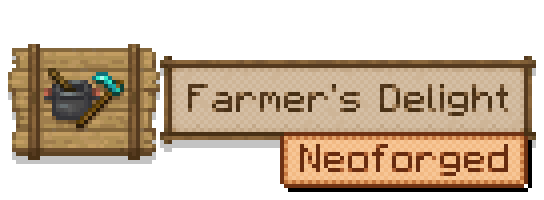
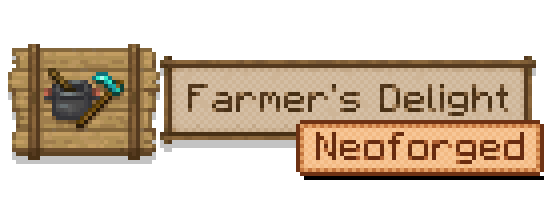
Branding: move Neoforged label up and right

Changed region(s): [[0.5, 0.6, 1.0, 0.96]]

diff --git a/branding/make_branding.py b/branding/make_branding.py
@@ -101,8 +101,8 @@ def build_banner(logo):
     tag = label("Neoforged")
     sl, st, sr, sb = sign_bounds(logo)
     # Hang the label from the sign: right-aligned with the sign's frame, top overlapping its bottom rail.
-    x = sr - tag.width - 1
-    y = sb - 5
+    x = sr - tag.width + 3
+    y = sb - 8
     height = max(logo.height, y + tag.height)
     banner = Image.new("RGBA", (logo.width, height), (0, 0, 0, 0))
     banner.alpha_composite(logo)
@@ -117,8 +117,8 @@ def build_icon(logo):
     cx, cy = (48 - crate.width) // 2, (48 - crate.height) // 2
     icon.alpha_composite(crate, (cx, cy))
     tag = label("N", pad_x=2)
-    # Pinned onto the crate's lower right panel.
-    icon.alpha_composite(tag, (cx + crate.width - tag.width + 2, cy + crate.height - tag.height - 3))
+    # Pinned to the crate's bottom-right corner, half on the crate.
+    icon.alpha_composite(tag, (cx + crate.width - tag.width + 3, cy + crate.height - tag.height + 4))
     return icon
 
 
